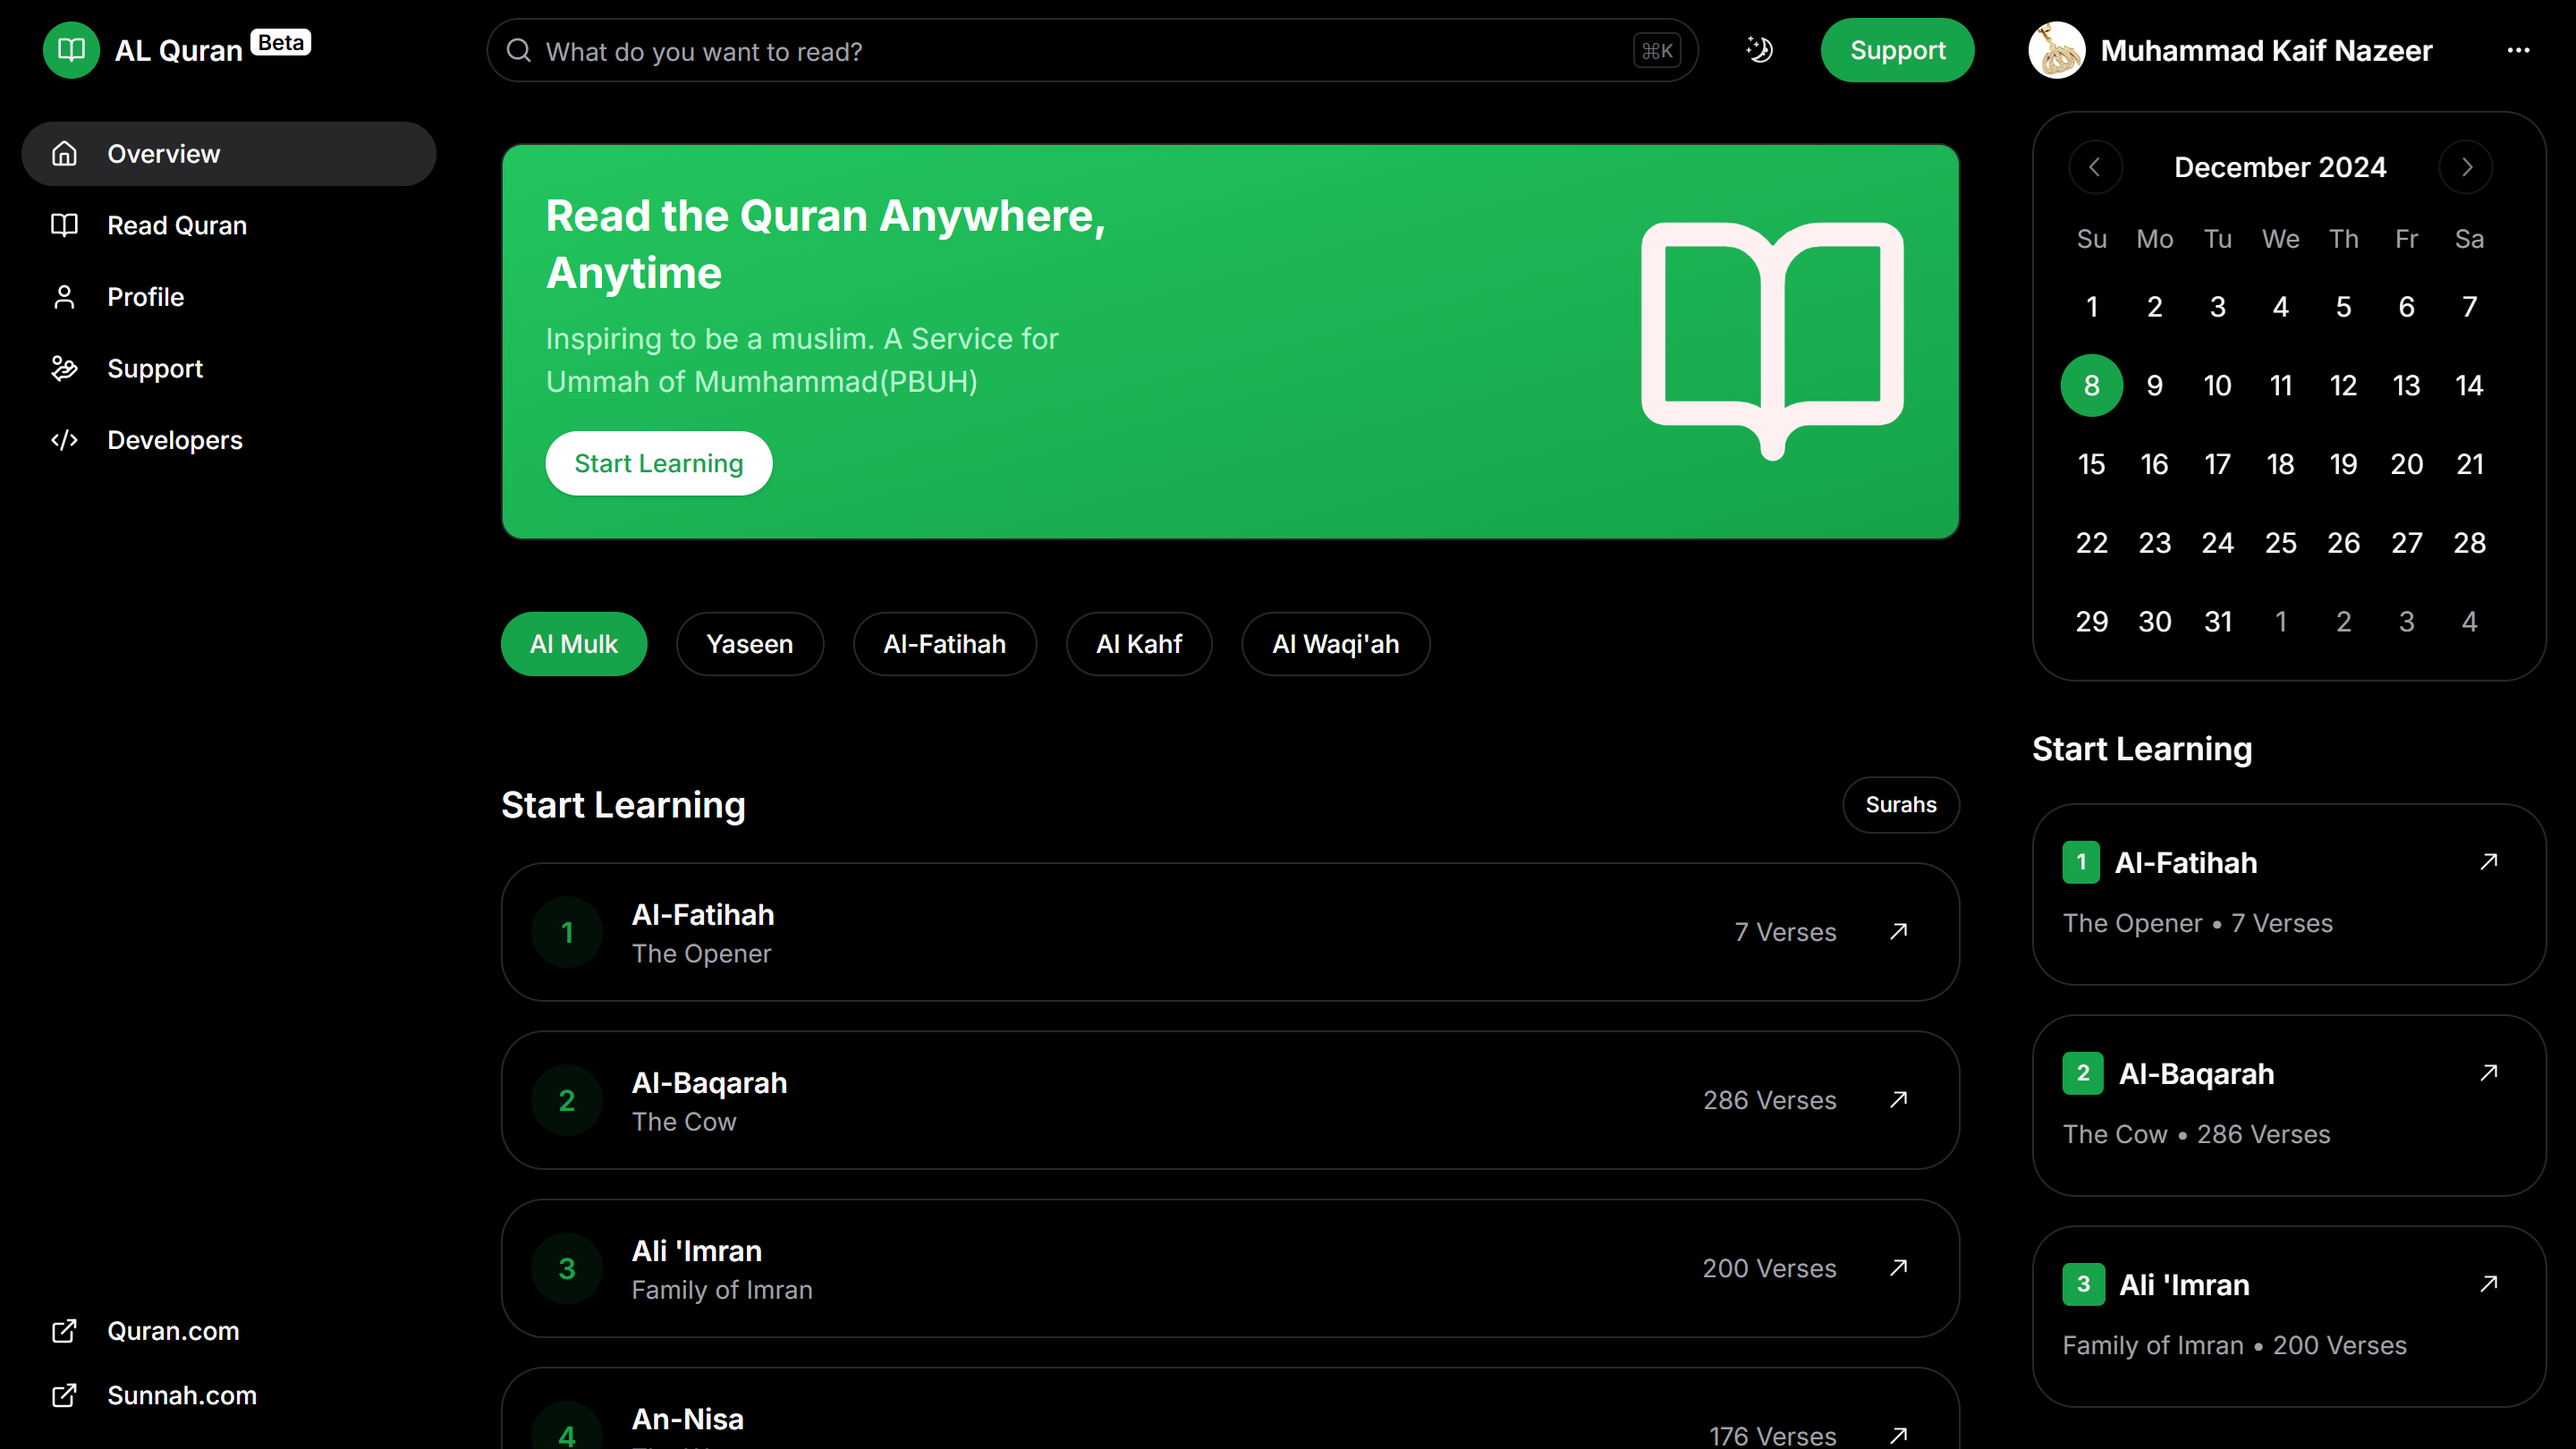
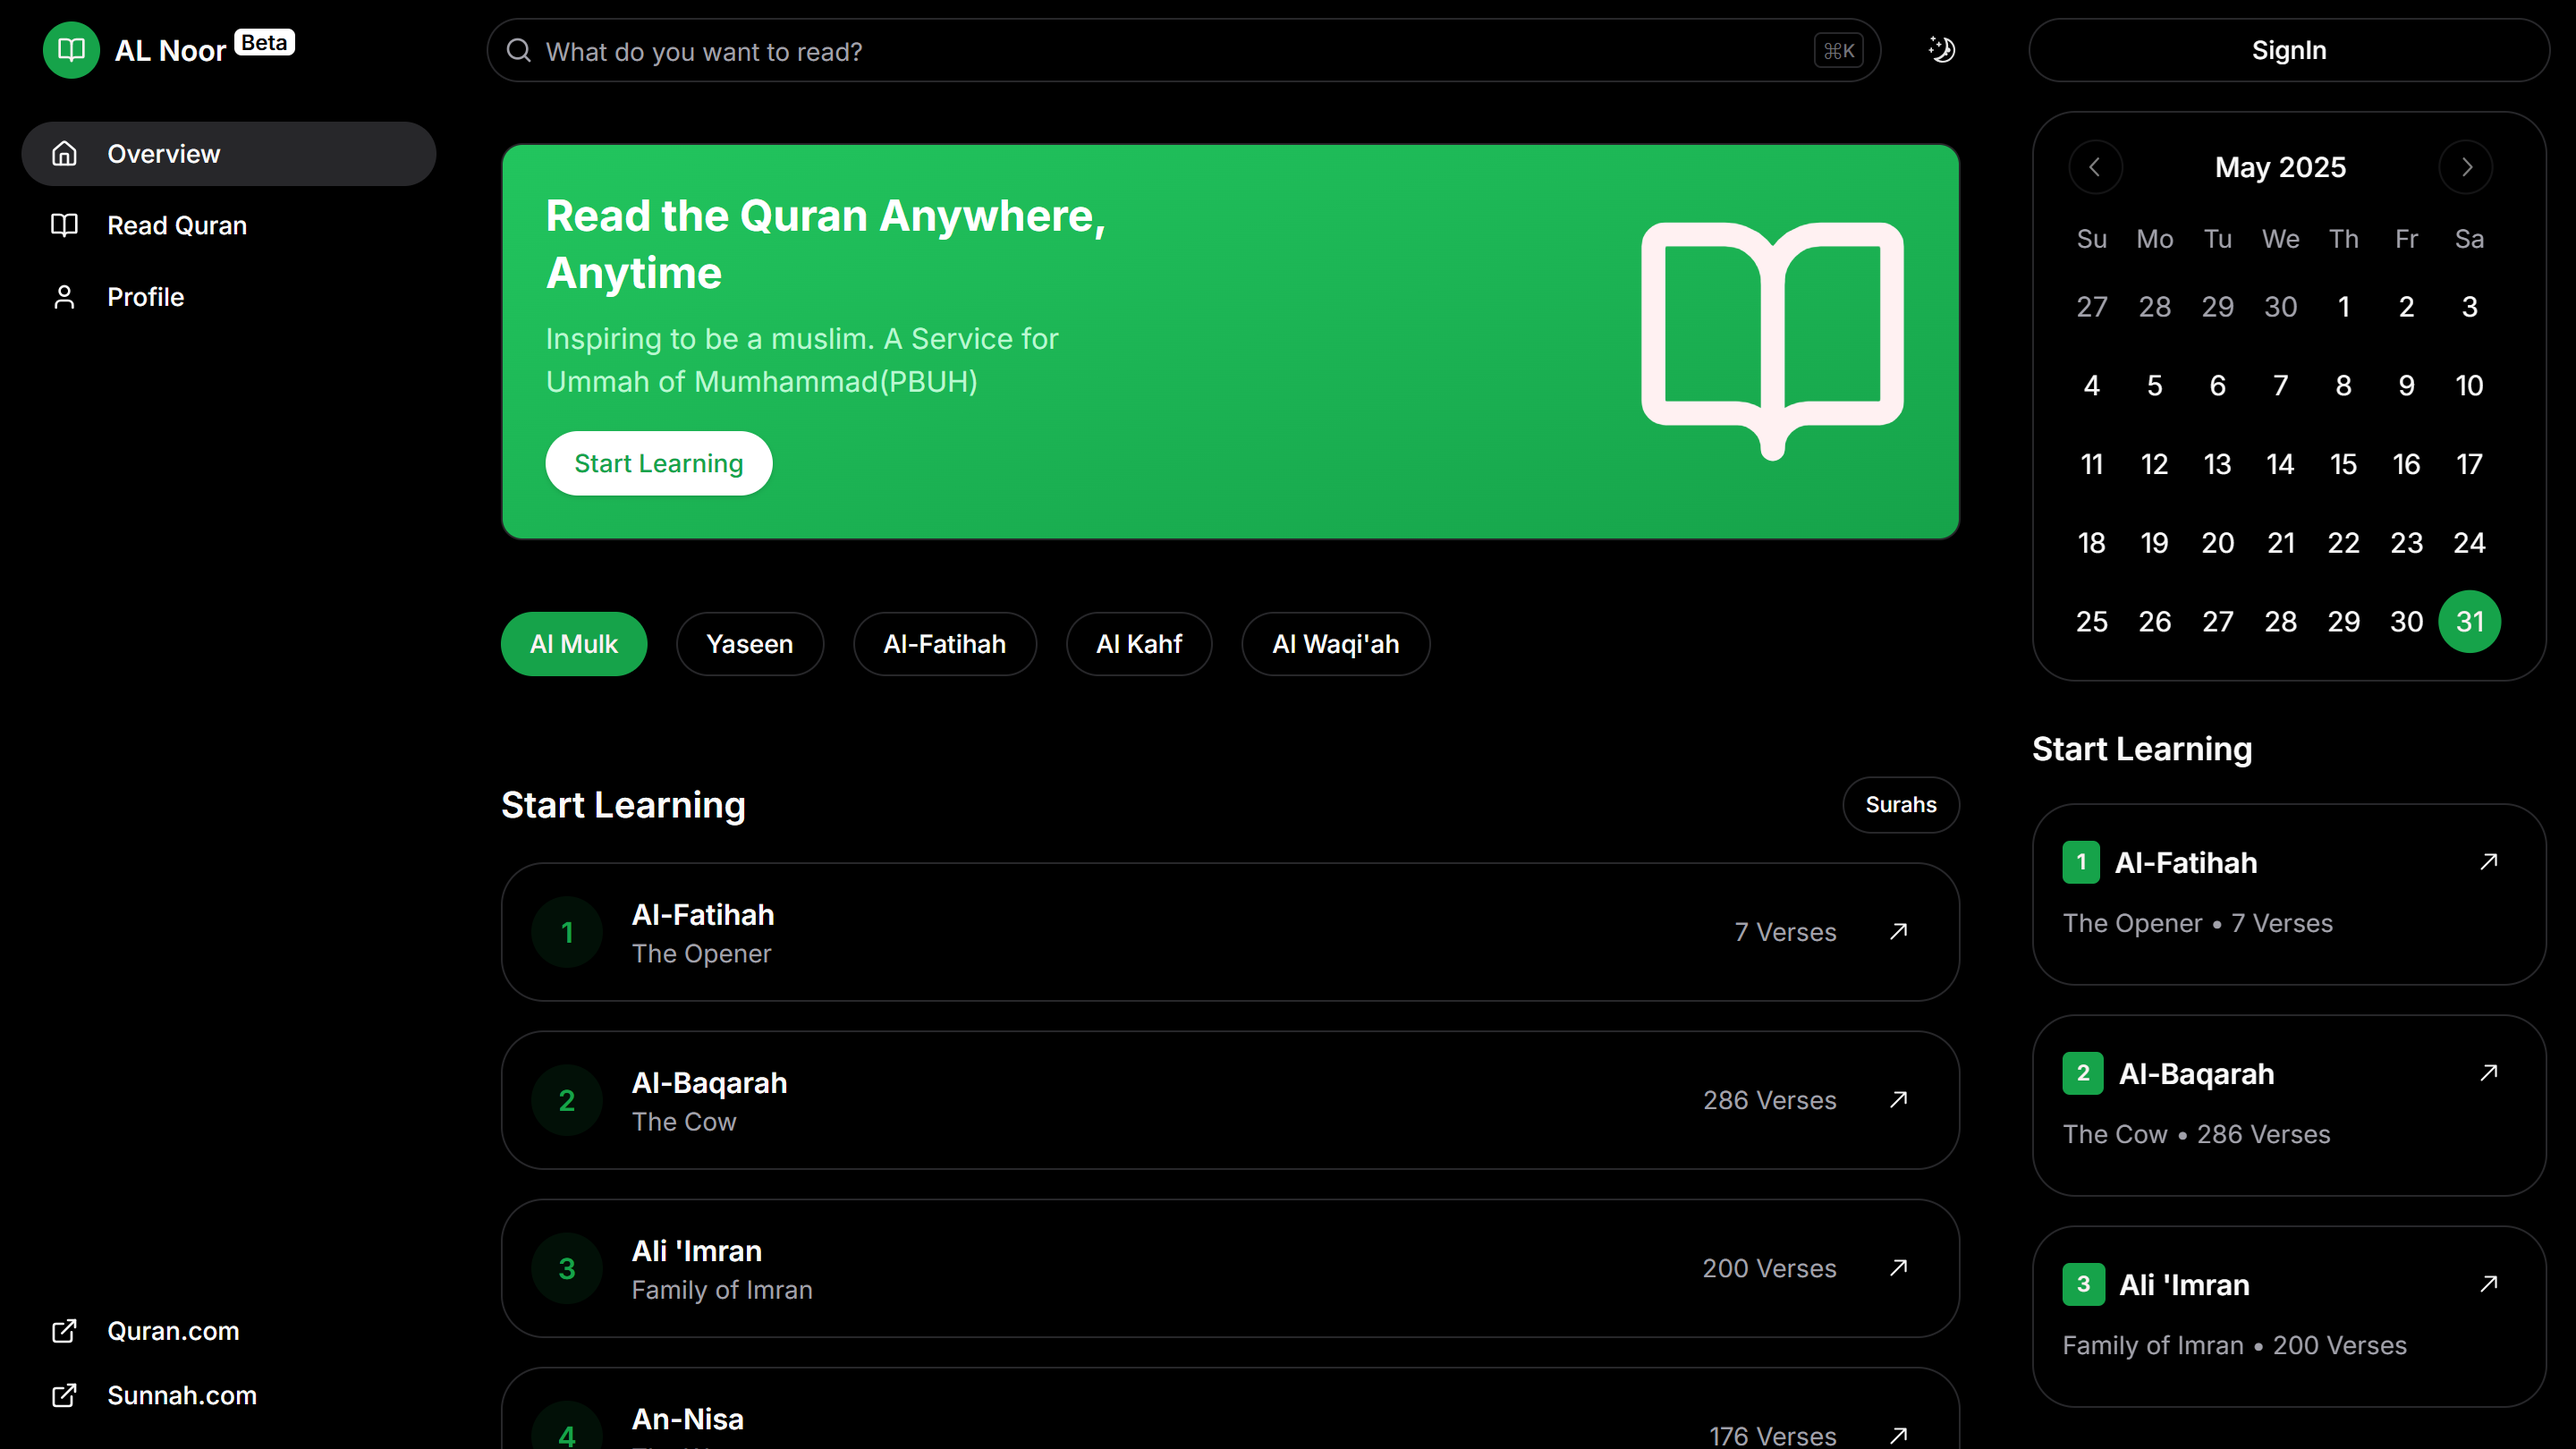
fix issues

diff --git a/src/components/Footer/Footer.tsx b/src/components/Footer/Footer.tsx
@@ -1,3 +1,4 @@
+import NavigationLinks from "@/data/navigation";
 import { BookOpen } from "lucide-react";
 import Image from "next/image";
 import Link from "next/link";
@@ -18,79 +19,37 @@ export default function Footer() {
                                 </div>
                                 <div className="flex flex-col">
                                     <h1 className="text-black dark:text-white font-sans">
-                                        AL Furqan <sup className="text-[12px] text-white dark:text-black bg-black dark:bg-white px-[4px] rounded">Beta</sup>
+                                        AL Noor <sup className="text-[12px] text-white dark:text-black bg-black dark:bg-white px-[4px] rounded">Beta</sup>
                                     </h1>
                                 </div>
                             </Link>
                         </div>
                         <div>
-                            Brought to you by{" "}
-                            <Link
-                                target="__blank"
-                                className="dark:text-white text-neutral-600 font-medium"
-                                href="https://bento.me/muhammadkaifnazeer"
-                            >
-                                Muhammad Kaif Nazeer
-                            </Link>
+                            Inspiring to be a muslim. A Service for Ummah of Mumhammad(PBUH)
                         </div>
                     </div>
-                    <div className="grid grid-cols-2 sm:grid-cols-3 gap-10 items-start mt-10 md:mt-0">
+                    <div className="grid grid-cols-2 gap-10 items-start mt-10 md:mt-0">
                         <div className="flex justify-center space-y-4 flex-col mt-4">
-                            <Link
-                                href="/"
-                                className="transition-colors hover:text-foreground/80 text-foreground/60"
-                            >
-                                Home
-                            </Link>
-                            <Link
-                                href="/read"
-                                className="transition-colors hover:text-foreground/80 text-foreground/60"
-                            >
-                                Read Quran
-                            </Link>
-                            <Link
-                                href="/listen"
-                                className="transition-colors hover:text-foreground/80 text-foreground/60"
-                            >
-                                Listen Quran
-                            </Link>
+                            {NavigationLinks.mainNav.map((link, idx) => (
+                                <Link
+                                    key={idx}
+                                    href={link.href}
+                                    className="transition-colors hover:text-foreground/80 text-foreground/60"
+                                >
+                                    {link.label}
+                                </Link>
+                            ))}
                         </div>
                         <div className="flex justify-center space-y-4 flex-col mt-4">
-                            <Link
-                                href="/profile"
-                                className="transition-colors hover:text-foreground/80 text-foreground/60"
-                            >
-                                Profile
-                            </Link>
-                            <Link
-                                href="/settings"
-                                className="transition-colors hover:text-foreground/80 text-foreground/60"
-                            >
-                                Settings
-                            </Link>
-                        </div>
-                        <div className="flex justify-center space-y-4 flex-col mt-4">
-                            <Link
-                                target="__blank"
-                                href="https://buymeacoffee.com/muhammadkaifnazeer"
-                                className="transition-colors hover:text-foreground/80 text-foreground/60"
-                            >
-                                Support
-                            </Link>
-                            <Link
-                                target="__blank"
-                                href="https://github.com/MuhammadKaifNazeer/al-furqan"
-                                className="transition-colors hover:text-foreground/80 text-foreground/60"
-                            >
-                                Developers
-                            </Link>
-                            <Link
-                                target="__blank"
-                                className="transition-colors hover:text-foreground/80 text-foreground/60"
-                                href="https://x.com/MuhammadKaif999"
-                            >
-                                Twitter
-                            </Link>
+                            {NavigationLinks.secondaryNav.map((link, idx) => (
+                                <Link
+                                    key={idx}
+                                    href={link.href}
+                                    className="transition-colors hover:text-foreground/80 text-foreground/60"
+                                >
+                                    {link.label}
+                                </Link>
+                            ))}
                         </div>
                     </div>
                 </div>

diff --git a/src/app/layout.tsx b/src/app/layout.tsx
@@ -8,13 +8,13 @@ import { Analytics } from "@vercel/analytics/react"
 const inter = Inter({ subsets: ["latin"] });
 
 export const metadata: Metadata = {
-  title: "Al-Furqan -  Online Quran Learning Platform",
+  title: "Al-Noor -  Online Quran Learning Platform",
   description:
-    "Al Furqan is an online Quran learning platform where you can read the Quran with translations. Access the Quran anywhere, anytime.",
-  applicationName: "Al Furqan",
+    "Al Noor is an online Quran learning platform where you can read the Quran with translations. Access the Quran anywhere, anytime.",
+  applicationName: "Al Noor",
   authors: [{ name: "Muhammad Kaif Nazeer" }],
   keywords: [
-    "Al Furqan",
+    "Al Noor",
     "Quran",
     "Holy Quran",
     "Islam",
@@ -40,11 +40,11 @@ export const metadata: Metadata = {
     apple: "/favicon/apple-touch-icon.png",
   },
   openGraph: {
-    title: "Al-Furqan -  Online Quran Learning Platform",
+    title: "Al-Noor -  Online Quran Learning Platform",
     description:
-      "Al Furqan is an online Quran learning platform where you can read the Quran with translations. Access the Quran anywhere, anytime.",
-    url: "https://alfurqan.vercel.app",
-    siteName: "Al Furqan",
+      "Al Noor is an online Quran learning platform where you can read the Quran with translations. Access the Quran anywhere, anytime.",
+    url: "https://noor.musayyabshah.com",
+    siteName: "Al Noor",
     type: "website",
     locale: "en_US",
     images: [
@@ -52,14 +52,14 @@ export const metadata: Metadata = {
         url: "/og-image.png",
         width: 1200,
         height: 630,
-        alt: "Al-Furqan -  Online Quran Learning Platform",
+        alt: "Al-Noor -  Online Quran Learning Platform",
       },
     ],
   },
   alternates: {
-    canonical: "https://alfurqan.vercel.app",
+    canonical: "https://noor.musayyabshah.com",
     languages: {
-      en: "https://alfurqan.vercel.app",
+      en: "https://noor.musayyabshah.com",
     },
   },
 };

diff --git a/src/components/Navbar/Navbar.tsx b/src/components/Navbar/Navbar.tsx
@@ -3,8 +3,6 @@
 import { Button } from "@/components/ui/button"
 import {
     BookOpen,
-    Search as SearhIcon,
-    Settings,
     X,
 } from "lucide-react"
 import { ScrollArea } from "../ui/scroll-area"
@@ -15,7 +13,6 @@ import { HamburgerMenuIcon } from "@radix-ui/react-icons"
 import { useState } from "react"
 import { UserButton } from "../UserButton/UserButton"
 import NavigationLinks from "@/data/navigation"
-import { Input } from "../ui/input"
 import Search from "../Search/Search"
 
 export function Navbar() {
@@ -31,12 +28,12 @@ export function Navbar() {
             <div className="sticky top-0 z-10 bg-background px-4 py-2.5 hidden md:flex items-center space-x-4">
                     <Search />
                 <ThemeToggler />
-                <Link
+                {/* <Link
                     target="__blank"
-                    href="https://buymeacoffee.com/muhammadkaifnazeer"
+                    href="https://buymeacoffee.com/"
                 >
                     <Button>Support</Button>
-                </Link>
+                </Link> */}
             </div>
 
             <div className="fixed md:hidden top-0 z-10 bg-background px-6 py-2.5 flex items-center justify-between w-full">
@@ -49,7 +46,7 @@ export function Navbar() {
                             <div className="flex h-8 w-8 items-center justify-center rounded-full bg-primary text-primary-foreground">
                                 <BookOpen className="size-4" />
                             </div>
-                            <span className="font-semibold">AL Furqan <sup className="text-[12px] text-white dark:text-black bg-black dark:bg-white px-[4px] rounded">Beta</sup></span>
+                            <span className="font-semibold">AL Noor <sup className="text-[12px] text-white dark:text-black bg-black dark:bg-white px-[4px] rounded">Beta</sup></span>
                         </div>
                     </div>
                 </Link>

diff --git a/src/components/Sidebars/LeftSidebar.tsx b/src/components/Sidebars/LeftSidebar.tsx
@@ -3,16 +3,6 @@
 import { Button } from "@/components/ui/button"
 import {
   BookOpen,
-  GraduationCap,
-  Heart,
-  HelpCircle,
-  History,
-  Home,
-  Podcast,
-  Search,
-  Settings,
-  Users,
-  X,
 } from "lucide-react"
 import { ScrollArea } from "../ui/scroll-area"
 import { usePathname } from "next/navigation"
@@ -34,7 +24,7 @@ export function LeftSidebar() {
                   <div className="flex h-8 w-8 items-center justify-center rounded-full bg-primary text-primary-foreground">
                     <BookOpen className="size-4" />
                   </div>
-                  <span className="font-semibold">AL Quran <sup className="text-[12px] text-white dark:text-black bg-black dark:bg-white px-[4px] rounded">Beta</sup></span>
+                  <span className="font-semibold">AL Noor <sup className="text-[12px] text-white dark:text-black bg-black dark:bg-white px-[4px] rounded">Beta</sup></span>
                 </div>
               </div>
             </Link>

diff --git a/src/data/navigation.tsx b/src/data/navigation.tsx
@@ -38,18 +38,6 @@ const NavigationLinks: NavigationLinksType = {
       label: "Profile",
       href: "/profile",
     },
-    {
-      icon: HandCoins,
-      label: "Support",
-      href: "https://buymeacoffee.com/muhammadkaifnazeer",
-      external: true,
-    },
-    {
-      icon: CodeXml,
-      label: "Developers",
-      href: "https://github.com/MuhammadKaifNazeer/al-furqan",
-      external: true,
-    },
   ],
   secondaryNav: [
     {

diff --git a/README.md b/README.md
@@ -1,1 +1,1 @@
-Al-Quran
+Al-Noor
